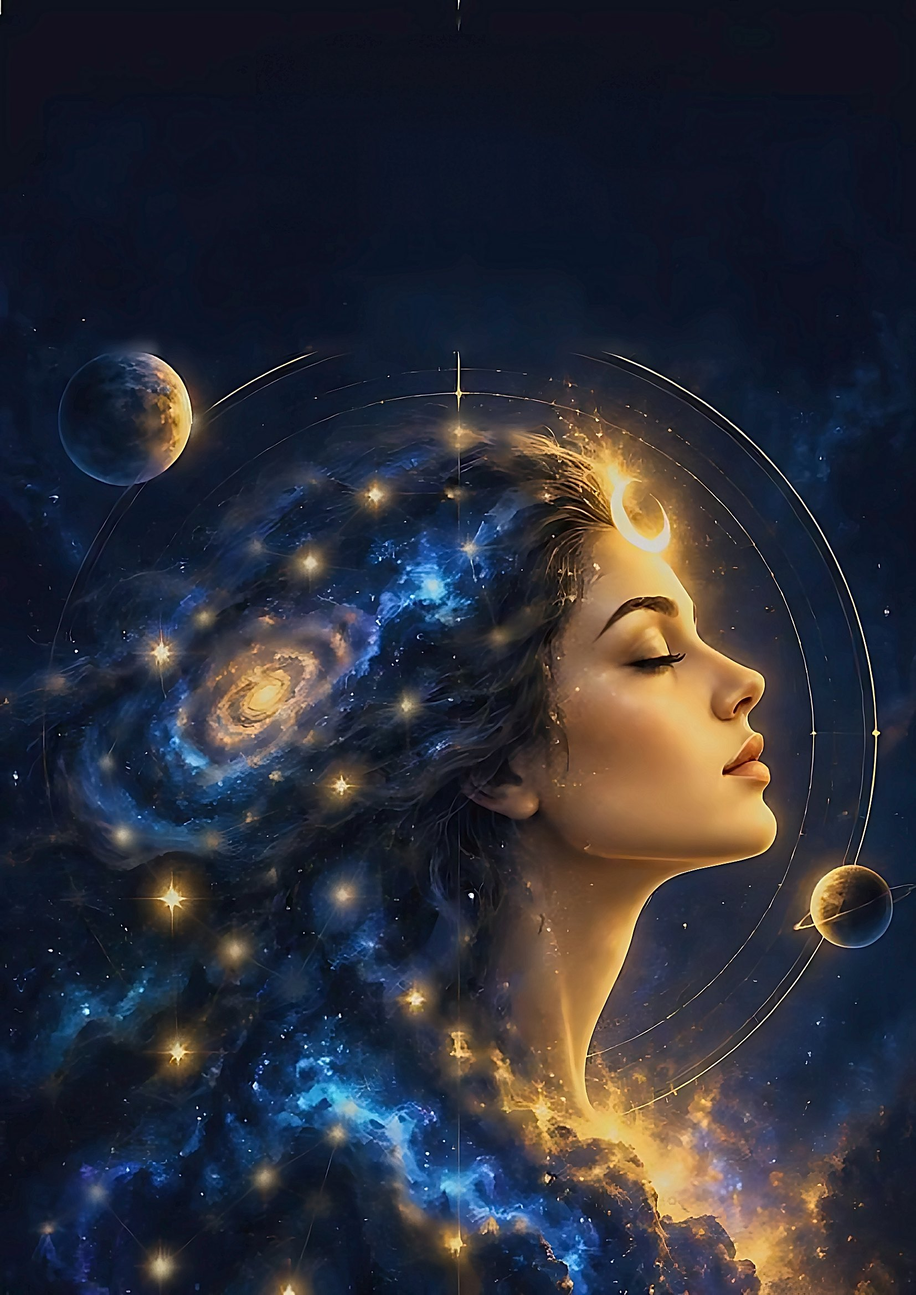
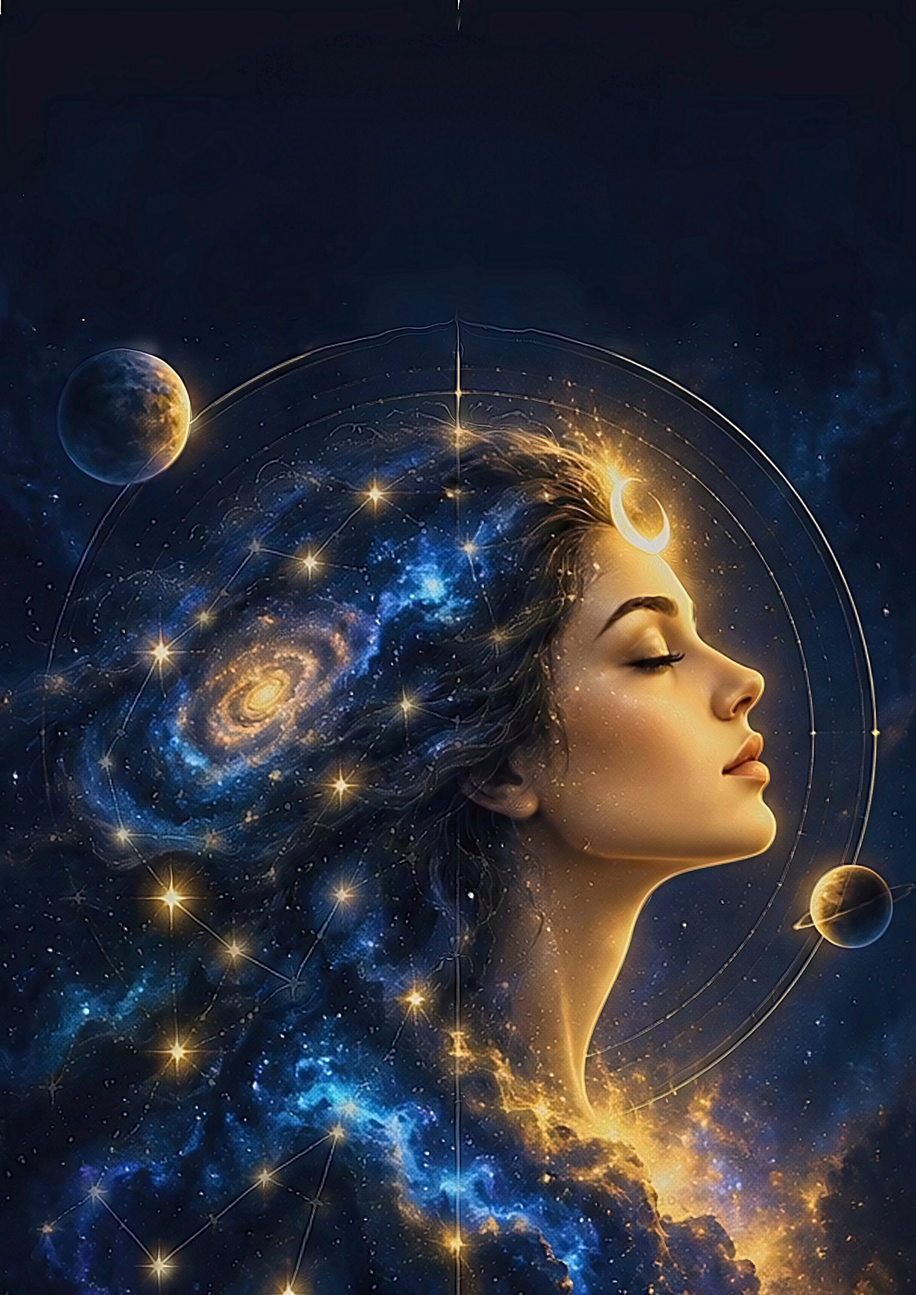
Round 3h: old openers 1, 4, 7 repaired with detail from the original artwork
Claude-Session: https://claude.ai/code/session_01TajgMe4WgAiLq68tE4NK1s

diff --git a/tools/repair_with_original.py b/tools/repair_with_original.py
@@ -1,0 +1,88 @@
+#!/usr/bin/env python3
+"""Repair the soft parts of an opener using the original artwork as the reference for detail.
+
+The 4K opener (art_originals/color_ref/chNN.jpg) is a zoomed, AI-enlarged version of the original picture: the colour and
+mood are right but thin lines (arcs, rims, constellations) came out blurred.  The original (art_originals/chNN_original.png)
+has them crisp.  The original is registered onto the opener (SIFT similarity + dense flow), and its fine detail is
+transplanted in: low frequencies (colour, light) stay from the opener, fine structure comes from the original.
+
+    python tools/repair_with_original.py            # writes report/static/img/chapters/ch01/04/07.jpg
+"""
+from __future__ import annotations
+
+import json
+import sys
+from pathlib import Path
+
+import cv2
+import numpy as np
+from PIL import Image
+
+sys.path.insert(0, str(Path(__file__).resolve().parent))
+import art_clean                                                    # noqa: E402
+
+ROOT = Path(__file__).resolve().parent.parent
+ART = ROOT / "art_originals"
+OUT = ROOT / "report" / "static" / "img" / "chapters"
+# how much of the original's fine detail replaces the opener's (1 = all), and the detail scale (px)
+TOP_KEEP = {1: 585, 4: 645, 7: 640}                              # px from the top of the page that stay as the opener has them
+CHAPTERS = {1: dict(mix=1.0, keep=0.30, sigma=2.2), 4: dict(mix=1.0, keep=0.30, sigma=2.2), 7: dict(mix=1.0, keep=0.30, sigma=2.2)}
+
+
+def register(org: np.ndarray, old: np.ndarray) -> np.ndarray:
+    """Return the original warped onto the opener's pixel grid."""
+    H, W = old.shape[:2]
+    s = H / org.shape[0]
+    org_r = cv2.resize(org, None, fx=s, fy=s, interpolation=cv2.INTER_CUBIC)
+    sift = cv2.SIFT_create(8000)
+    g1, g2 = cv2.cvtColor(org_r, cv2.COLOR_BGR2GRAY), cv2.cvtColor(old, cv2.COLOR_BGR2GRAY)
+    k1, d1 = sift.detectAndCompute(g1, None)
+    k2, d2 = sift.detectAndCompute(g2, None)
+    good = [a for a, b in cv2.BFMatcher().knnMatch(d1, d2, k=2) if a.distance < 0.75 * b.distance]
+    p1 = np.float32([k1[a.queryIdx].pt for a in good]); p2 = np.float32([k2[a.trainIdx].pt for a in good])
+    M, inl = cv2.estimateAffinePartial2D(p1, p2, method=cv2.RANSAC, ransacReprojThreshold=3)
+    if M is None or inl.sum() < 40:
+        raise SystemExit("could not register the original onto the opener")
+    # warp straight from the full-resolution original (one resampling)
+    S = np.diag([s, s, 1.0]); M3 = np.vstack([M, [0, 0, 1]]) @ S
+    warped = cv2.warpAffine(org, M3[:2], (W, H), flags=cv2.INTER_CUBIC, borderMode=cv2.BORDER_REPLICATE)
+    # dense flow: fix the small local differences left after the global fit
+    a = cv2.GaussianBlur(cv2.cvtColor(warped, cv2.COLOR_BGR2GRAY), (0, 0), 2)
+    b = cv2.GaussianBlur(g2, (0, 0), 2)
+    flow = cv2.DISOpticalFlow_create(cv2.DISOPTICAL_FLOW_PRESET_MEDIUM).calc(a, b, None)
+    flow = cv2.GaussianBlur(flow, (0, 0), 6)                          # smooth: no local tearing
+    gx, gy = np.meshgrid(np.arange(W, dtype=np.float32), np.arange(H, dtype=np.float32))
+    return cv2.remap(warped, gx + flow[..., 0], gy + flow[..., 1], cv2.INTER_CUBIC, borderMode=cv2.BORDER_REPLICATE), int(inl.sum())
+
+
+def transplant(old: np.ndarray, ref: np.ndarray, mix: float, keep: float, sigma: float) -> np.ndarray:
+    o, r = old.astype(np.float32), ref.astype(np.float32)
+    # colour / light of the opener, detail of the original (brightness only, so no colour fringes)
+    lo = cv2.cvtColor(old, cv2.COLOR_BGR2LAB).astype(np.float32)
+    lr = cv2.cvtColor(ref, cv2.COLOR_BGR2LAB).astype(np.float32)
+    Lo, Lr = lo[..., 0], lr[..., 0]
+    hf_ref = Lr - cv2.GaussianBlur(Lr, (0, 0), sigma)
+    hf_old = Lo - cv2.GaussianBlur(Lo, (0, 0), sigma)
+    lo[..., 0] = np.clip(Lo - (1 - keep) * mix * hf_old + mix * hf_ref * 1.0 + (1 - mix) * 0, 0, 255)
+    # thin bright lines: take the original's colour there too, so a gold arc stays gold instead of turning grey
+    return cv2.cvtColor(lo.astype(np.uint8), cv2.COLOR_LAB2BGR)
+
+
+def main() -> int:
+    for n, p in CHAPTERS.items():
+        old = cv2.imread(str(ART / "color_ref" / f"ch{n:02d}.jpg"))
+        org = cv2.imread(str(ART / f"ch{n:02d}_original.png"))
+        ref, inl = register(org, old)
+        out = transplant(old, ref, **p)
+        # the original still carries its baked title: keep the opener (title already painted out) above this line
+        m = np.zeros(old.shape[:2], np.float32)
+        m[:TOP_KEEP[n], :] = 1
+        m = cv2.GaussianBlur(m, (0, 0), 16)[..., None]
+        out = (out * (1 - m) + old * m).astype(np.uint8)
+        Image.fromarray(cv2.cvtColor(out, cv2.COLOR_BGR2RGB)).save(OUT / f"ch{n:02d}.jpg", "JPEG", quality=88, optimize=True, progressive=True)
+        print(f"ch{n:02d}: registered with {inl} matches")
+    return 0
+
+
+if __name__ == "__main__":
+    sys.exit(main())
